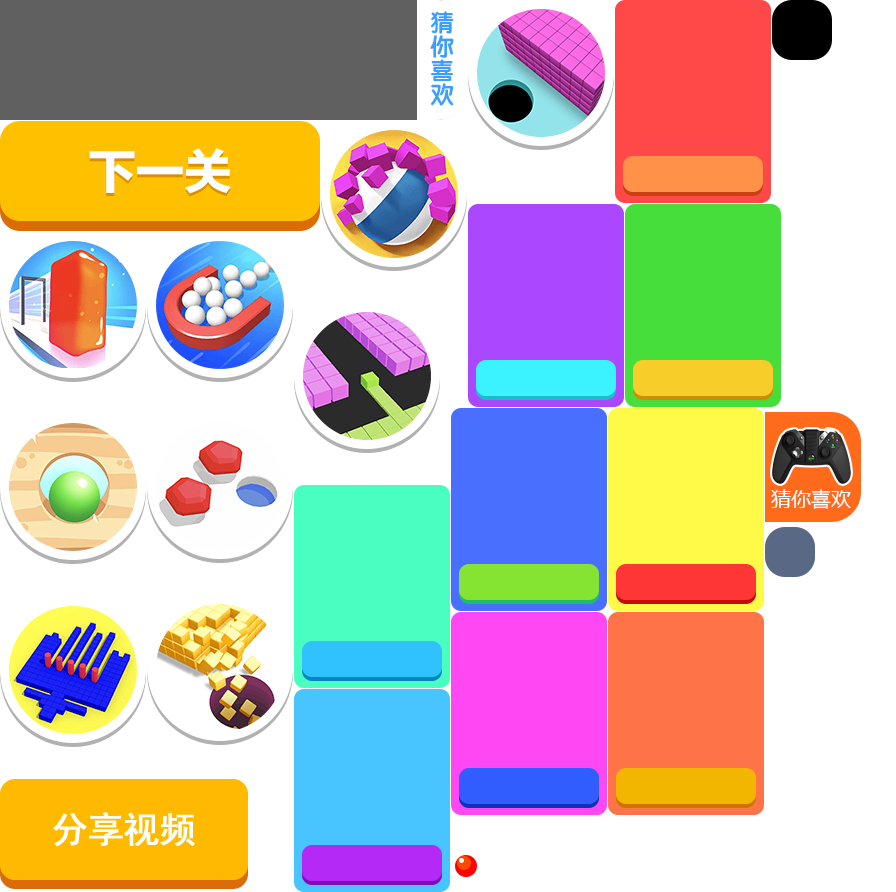
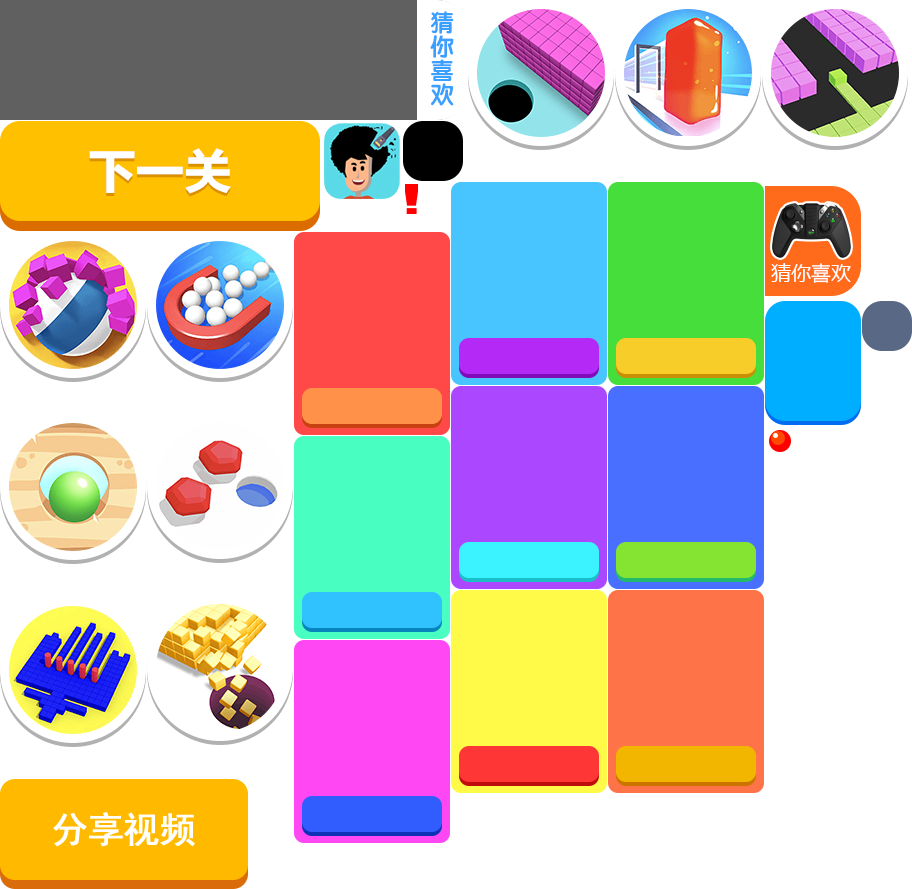
头条(1.添加轮播游戏盒子,2.更新游戏盒子列表)

diff --git a/src/ui/layaMaxUI.ts b/src/ui/layaMaxUI.ts
@@ -42,7 +42,9 @@ export module ui {
 		public shareBox:Laya.Sprite;
 		public again:Laya.Label;
 		public btn_share:Laya.Image;
-        public static  uiView:any ={"type":"Scene","props":{"width":750,"positionVariance_0":100,"maxPartices":100,"height":1630},"compId":1,"child":[{"type":"Box","props":{"y":0,"x":0,"width":750,"var":"box_mouse","height":1630},"compId":21},{"type":"Box","props":{"y":0,"x":0,"width":750,"var":"box_main","height":1630},"compId":112,"child":[{"type":"Image","props":{"y":228,"x":96,"skin":"img/logo.png"},"compId":164},{"type":"Image","props":{"y":750,"x":220,"var":"btn_doubleStart","skin":"img/zj-anniu.png"},"compId":156},{"type":"Image","props":{"y":900,"x":220,"var":"btn_start","skin":"img/zj-anniu1.png"},"compId":157,"child":[{"type":"Image","props":{"y":42,"x":72,"skin":"img/zj-anniu2.png"},"compId":186}]},{"type":"Image","props":{"y":536,"x":3,"skin":"img/zj-di.png"},"compId":162,"child":[{"type":"Image","props":{"y":11,"x":15,"var":"img_signin","skin":"img/zj-qd.png"},"compId":160}]},{"type":"Image","props":{"y":661,"x":3,"skin":"img/zj-di.png"},"compId":163,"child":[{"type":"Image","props":{"y":4,"x":18,"var":"img_skin","skin":"img/zj-pf.png"},"compId":161}]}]},{"type":"Box","props":{"y":0,"x":0,"width":750,"var":"box_win","height":1630},"compId":128,"child":[{"type":"Image","props":{"y":269,"x":111,"skin":"img/sl-sl.png"},"compId":170},{"type":"Image","props":{"y":420,"x":192,"skin":"img/sl-jl1.png"},"compId":167,"child":[{"type":"Image","props":{"y":48,"x":50,"skin":"img/sl-jl2.png"},"compId":168},{"type":"Image","props":{"y":280,"x":122,"skin":"img/start-z.png"},"compId":169},{"type":"Label","props":{"y":276.5,"x":184,"width":129,"var":"label_getdmd","valign":"middle","text":"20","height":50,"fontSize":50,"font":"SimHei","color":"#ffffff","bold":true,"align":"left"},"compId":173}]},{"type":"Image","props":{"y":820,"x":220,"var":"btn_wubeilingqu","skin":"img/sl-lq.png"},"compId":165},{"type":"Image","props":{"y":980,"x":220,"var":"btn_zhijielingqu","skin":"img/zj-anniu1.png"},"compId":166,"child":[{"type":"Image","props":{"y":46,"x":83,"skin":"img/zjlq.png"},"compId":185}]}]},{"type":"Box","props":{"y":0,"x":0,"width":750,"var":"box_lose","height":1630},"compId":129,"child":[{"type":"Image","props":{"y":284,"x":110.5,"skin":"img/sb-sb.png"},"compId":174},{"type":"Image","props":{"y":420,"x":210,"skin":"img/sb-djs.png"},"compId":175},{"type":"Image","props":{"y":820,"x":220.5,"var":"btn_jixuyouxi","skin":"img/sb-jx.png"},"compId":176},{"type":"Image","props":{"y":980,"x":220,"var":"btn_fanhui","skin":"img/zj-anniu1.png"},"compId":177,"child":[{"type":"Image","props":{"y":47,"x":120,"skin":"img/sl-fh.png"},"compId":184}]},{"type":"FontClip","props":{"y":590,"x":375,"var":"font_failCnt","value":"10","skin":"img/1234567890.png","sheet":"1234567890","scaleY":3.2,"scaleX":3.2,"anchorY":0.5,"anchorX":0.5},"compId":183}]},{"type":"Image","props":{"y":135,"x":535,"width":211,"var":"img_dmd","skin":"img/start-zdi.png","sizeGrid":"0,30,0,29","height":59},"compId":121,"child":[{"type":"Image","props":{"y":5,"x":13,"skin":"img/start-z.png"},"compId":122},{"type":"Label","props":{"y":12,"x":75,"width":127,"var":"label_dmd","valign":"middle","text":"0","height":36,"fontSize":36,"font":"SimHei","color":"#ffffff","bold":true,"align":"center"},"compId":125}]},{"type":"Box","props":{"y":138.5,"x":25,"var":"box_set"},"compId":179,"child":[{"type":"Image","props":{"skin":"img/zj-shezhi.png"},"compId":178}]},{"type":"Box","props":{"y":90,"x":235,"var":"box_lvl"},"compId":152,"child":[{"type":"ProgressBar","props":{"var":"prg_pro","skin":"img/start-jdt.png","sizeGrid":"20,0,20,0,1"},"compId":180},{"type":"Label","props":{"y":8,"x":0,"width":55,"var":"label_p1","valign":"middle","text":"0","height":36,"fontSize":36,"font":"SimHei","color":"#ffffff","bold":true,"align":"center"},"compId":181},{"type":"Label","props":{"y":8,"x":220,"width":55,"var":"label_p2","valign":"middle","text":"0","height":36,"fontSize":36,"font":"SimHei","color":"#ffffff","bold":true,"align":"center"},"compId":182}]},{"type":"Image","props":{"y":400,"x":0,"visible":false,"var":"btn_camera","skin":"img/img_camera.png"},"compId":187},{"type":"Image","props":{"x":48,"visible":false,"var":"bg_push","top":1300,"skin":"push/push_bg_img.png","scaleY":1.4,"scaleX":1.4},"compId":188},{"type":"Sprite","props":{"y":130,"x":104,"width":542,"visible":false,"var":"shareBox"},"compId":189,"child":[{"type":"Image","props":{"y":297,"width":542,"skin":"push/img_bg_1.png","sizeGrid":"20,20,20,20","height":686},"compId":190,"child":[{"type":"Label","props":{"y":603,"x":211,"var":"again","underline":true,"text":"再来一次","fontSize":30,"color":"#fff","bold":true},"compId":191},{"type":"Image","props":{"y":463,"x":147,"var":"btn_share","skin":"push/img_share.png"},"compId":192},{"type":"Label","props":{"y":223,"x":40,"text":"将本次精彩操作分享给朋友吧!","fontSize":34,"color":"#fff","bold":true},"compId":197},{"type":"Label","props":{"y":33,"x":169,"text":"提示","fontSize":100,"color":"#ffd40b","bold":true},"compId":198}]}]}],"loadList":["img/logo.png","img/zj-anniu.png","img/zj-anniu1.png","img/zj-anniu2.png","img/zj-di.png","img/zj-qd.png","img/zj-pf.png","img/sl-sl.png","img/sl-jl1.png","img/sl-jl2.png","img/start-z.png","img/sl-lq.png","img/zjlq.png","img/sb-sb.png","img/sb-djs.png","img/sb-jx.png","img/sl-fh.png","img/1234567890.png","img/start-zdi.png","img/zj-shezhi.png","img/start-jdt.png","img/img_camera.png","push/push_bg_img.png","push/img_bg_1.png","push/img_share.png"],"loadList3D":[]};
+		public TTBtnPush:Laya.Image;
+		public TTBtnIcon:Laya.Image;
+        public static  uiView:any ={"type":"Scene","props":{"width":750,"positionVariance_0":100,"maxPartices":100,"height":1630},"compId":1,"child":[{"type":"Box","props":{"y":0,"x":0,"width":750,"var":"box_mouse","height":1630},"compId":21},{"type":"Box","props":{"y":0,"x":0,"width":750,"var":"box_main","height":1630},"compId":112,"child":[{"type":"Image","props":{"y":228,"x":96,"skin":"img/logo.png"},"compId":164},{"type":"Image","props":{"y":750,"x":220,"var":"btn_doubleStart","skin":"img/zj-anniu.png"},"compId":156},{"type":"Image","props":{"y":900,"x":220,"var":"btn_start","skin":"img/zj-anniu1.png"},"compId":157,"child":[{"type":"Image","props":{"y":42,"x":72,"skin":"img/zj-anniu2.png"},"compId":186}]},{"type":"Image","props":{"y":536,"x":3,"skin":"img/zj-di.png"},"compId":162,"child":[{"type":"Image","props":{"y":11,"x":15,"var":"img_signin","skin":"img/zj-qd.png"},"compId":160}]},{"type":"Image","props":{"y":661,"x":3,"skin":"img/zj-di.png"},"compId":163,"child":[{"type":"Image","props":{"y":4,"x":18,"var":"img_skin","skin":"img/zj-pf.png"},"compId":161}]}]},{"type":"Box","props":{"y":0,"x":0,"width":750,"var":"box_win","height":1630},"compId":128,"child":[{"type":"Image","props":{"y":269,"x":111,"skin":"img/sl-sl.png"},"compId":170},{"type":"Image","props":{"y":420,"x":192,"skin":"img/sl-jl1.png"},"compId":167,"child":[{"type":"Image","props":{"y":48,"x":50,"skin":"img/sl-jl2.png"},"compId":168},{"type":"Image","props":{"y":280,"x":122,"skin":"img/start-z.png"},"compId":169},{"type":"Label","props":{"y":276.5,"x":184,"width":129,"var":"label_getdmd","valign":"middle","text":"20","height":50,"fontSize":50,"font":"SimHei","color":"#ffffff","bold":true,"align":"left"},"compId":173}]},{"type":"Image","props":{"y":820,"x":220,"var":"btn_wubeilingqu","skin":"img/sl-lq.png"},"compId":165},{"type":"Image","props":{"y":980,"x":220,"var":"btn_zhijielingqu","skin":"img/zj-anniu1.png"},"compId":166,"child":[{"type":"Image","props":{"y":46,"x":83,"skin":"img/zjlq.png"},"compId":185}]}]},{"type":"Box","props":{"y":0,"x":0,"width":750,"var":"box_lose","height":1630},"compId":129,"child":[{"type":"Image","props":{"y":284,"x":110.5,"skin":"img/sb-sb.png"},"compId":174},{"type":"Image","props":{"y":420,"x":210,"skin":"img/sb-djs.png"},"compId":175},{"type":"Image","props":{"y":820,"x":220.5,"var":"btn_jixuyouxi","skin":"img/sb-jx.png"},"compId":176},{"type":"Image","props":{"y":980,"x":220,"var":"btn_fanhui","skin":"img/zj-anniu1.png"},"compId":177,"child":[{"type":"Image","props":{"y":47,"x":120,"skin":"img/sl-fh.png"},"compId":184}]},{"type":"FontClip","props":{"y":590,"x":375,"var":"font_failCnt","value":"10","skin":"img/1234567890.png","sheet":"1234567890","scaleY":3.2,"scaleX":3.2,"anchorY":0.5,"anchorX":0.5},"compId":183}]},{"type":"Image","props":{"y":135,"x":535,"width":211,"var":"img_dmd","skin":"img/start-zdi.png","sizeGrid":"0,30,0,29","height":59},"compId":121,"child":[{"type":"Image","props":{"y":5,"x":13,"skin":"img/start-z.png"},"compId":122},{"type":"Label","props":{"y":12,"x":75,"width":127,"var":"label_dmd","valign":"middle","text":"0","height":36,"fontSize":36,"font":"SimHei","color":"#ffffff","bold":true,"align":"center"},"compId":125}]},{"type":"Box","props":{"y":138.5,"x":25,"var":"box_set"},"compId":179,"child":[{"type":"Image","props":{"skin":"img/zj-shezhi.png"},"compId":178}]},{"type":"Box","props":{"y":90,"x":235,"var":"box_lvl"},"compId":152,"child":[{"type":"ProgressBar","props":{"var":"prg_pro","skin":"img/start-jdt.png","sizeGrid":"20,0,20,0,1"},"compId":180},{"type":"Label","props":{"y":8,"x":0,"width":55,"var":"label_p1","valign":"middle","text":"0","height":36,"fontSize":36,"font":"SimHei","color":"#ffffff","bold":true,"align":"center"},"compId":181},{"type":"Label","props":{"y":8,"x":220,"width":55,"var":"label_p2","valign":"middle","text":"0","height":36,"fontSize":36,"font":"SimHei","color":"#ffffff","bold":true,"align":"center"},"compId":182}]},{"type":"Image","props":{"y":400,"x":0,"visible":false,"var":"btn_camera","skin":"img/img_camera.png"},"compId":187},{"type":"Image","props":{"x":48,"visible":false,"var":"bg_push","top":1300,"skin":"push/push_bg_img.png","scaleY":1.4,"scaleX":1.4},"compId":188},{"type":"Sprite","props":{"y":130,"x":104,"width":542,"visible":false,"var":"shareBox"},"compId":189,"child":[{"type":"Image","props":{"y":297,"width":542,"skin":"push/img_bg_1.png","sizeGrid":"20,20,20,20","height":686},"compId":190,"child":[{"type":"Label","props":{"y":603,"x":211,"var":"again","underline":true,"text":"再来一次","fontSize":30,"color":"#fff","bold":true},"compId":191},{"type":"Image","props":{"y":463,"x":147,"var":"btn_share","skin":"push/img_share.png"},"compId":192},{"type":"Label","props":{"y":223,"x":40,"text":"将本次精彩操作分享给朋友吧!","fontSize":34,"color":"#fff","bold":true},"compId":197},{"type":"Label","props":{"y":33,"x":169,"text":"提示","fontSize":100,"color":"#ffd40b","bold":true},"compId":198}]}]},{"type":"Image","props":{"y":618,"x":682,"visible":false,"var":"TTBtnPush","skin":"push/bg_push.png","right":20,"pivotY":68,"pivotX":48},"compId":199,"child":[{"type":"Image","props":{"y":11,"x":7,"var":"TTBtnIcon","skin":"push/fklfsicon.png"},"compId":200},{"type":"Image","props":{"y":-12,"skin":"push/mark.png"},"compId":201}]}],"loadList":["img/logo.png","img/zj-anniu.png","img/zj-anniu1.png","img/zj-anniu2.png","img/zj-di.png","img/zj-qd.png","img/zj-pf.png","img/sl-sl.png","img/sl-jl1.png","img/sl-jl2.png","img/start-z.png","img/sl-lq.png","img/zjlq.png","img/sb-sb.png","img/sb-djs.png","img/sb-jx.png","img/sl-fh.png","img/1234567890.png","img/start-zdi.png","img/zj-shezhi.png","img/start-jdt.png","img/img_camera.png","push/push_bg_img.png","push/img_bg_1.png","push/img_share.png","push/bg_push.png","push/fklfsicon.png","push/mark.png"],"loadList3D":[]};
         constructor(){ super()}
         createChildren():void {
             super.createChildren();

diff --git a/src/platforms/JsbTouTiao.ts b/src/platforms/JsbTouTiao.ts
@@ -1,6 +1,8 @@
 import { JsbBase, AdvertType } from "./JsbBase";
 import { VideoCom } from "../Component/VideoCom";
 
+const pushIcon = ['fklfsicon', 'qqtkicon', 'bzklicon', 'cjjyicon', 'qqbwticon'];
+
 export default class JsbTouTiao extends JsbBase {
 
 
@@ -26,6 +28,9 @@ export default class JsbTouTiao extends JsbBase {
 
     public windowWidth: number;
     public windowHeight: number;
+
+    public pushNum: number = 0;
+    public tweenNum: number = 0;
 
     public excitationHandler: Laya.Handler;
 
@@ -336,7 +341,7 @@ export default class JsbTouTiao extends JsbBase {
             let id = "ttf3f0854d6cda1ee2";
             this.btna = tt.createMoreGamesButton({
                 type: "image",
-                image: "res/push/qqbwticon.png",
+                image: "res/push/fklfsicon.png",
                 style: {
                     left: 22,
                     top: this.windowHeight - 100,
@@ -362,7 +367,7 @@ export default class JsbTouTiao extends JsbBase {
 
             this.btnb = tt.createMoreGamesButton({
                 type: "image",
-                image: "res/push/ggphqicon.png",
+                image: "res/push/qqtkicon.png",
                 style: {
                     left: 94,
                     top: this.windowHeight - 100,
@@ -414,7 +419,7 @@ export default class JsbTouTiao extends JsbBase {
 
             this.btnd = tt.createMoreGamesButton({
                 type: "image",
-                image: "res/push/hdcqdzzicon.png",
+                image: "res/push/cjjyicon.png",
                 style: {
                     left: 240,
                     top: this.windowHeight - 100,
@@ -461,5 +466,51 @@ export default class JsbTouTiao extends JsbBase {
     /** 是不是胖子*/
     isFat(){
         return (this.windowHeight / this.windowWidth) < 1.9;
+    }
+
+    /** 跳转小游戏*/
+    TTnavigateToMiniGame() {
+        if (this.isIos()) return;
+        // 打开互跳弹窗
+        tt.showMoreGamesModal({
+            appLaunchOptions: [
+                {
+                    appId: 'tt68a61e1bf78cb645',
+                    query: "foo=bar&baz=qux"
+                }
+            ],
+            success(res) {
+                console.log('success', res.errMsg)
+            },
+            fail(res) {
+                console.log('fail', res.errMsg)
+            }
+        })
+    }
+
+    /** 头条互推轮播*/
+    ttPushShake(game) {
+        game.TTBtnIcon.skin = `res/push/${pushIcon[this.pushNum]}.png`;
+        this.pushNum++;
+        if(this.pushNum > 4)this.pushNum = 0;
+        this.tween_push(game);
+        setTimeout(() => {
+            this.ttPushShake(game);
+        }, 1000 * 4.8)
+    }
+    /** 头条互推轮播缓动序列*/
+    tween_push(game){
+        this.tweenNum++;
+        if(this.tweenNum > 4)return this.tweenNum = 0;
+        Laya.Tween.to(game.TTBtnPush,{ rotation: 30 }, 200, null, Laya.Handler.create(this,this.tween_1,[game]));
+    }
+    tween_1(game){
+        Laya.Tween.to(game.TTBtnPush,{ rotation: 0 }, 200, null, Laya.Handler.create(this,this.tween_2,[game]));
+    }
+    tween_2(game){
+        Laya.Tween.to(game.TTBtnPush,{ rotation: -30 }, 200, null, Laya.Handler.create(this,this.tween_3,[game]), 400);
+    }
+    tween_3(game){
+        Laya.Tween.to(game.TTBtnPush,{ rotation: 0 }, 200, null, Laya.Handler.create(this,this.tween_push,[game]));
     }
 }

diff --git a/src/games/GameUI.ts b/src/games/GameUI.ts
@@ -88,12 +88,16 @@ export default class GameUI extends ui.MainSceneUI {
 
         this.btn_share.on(Laya.Event.CLICK, this, this.videoShare);
         this.again.on(Laya.Event.CLICK, this, this.againType);
+        this.TTBtnPush.on(Laya.Event.CLICK, this, this.btnPush);
 
         if (PlatformManager.platform != PlatformType.TTMinGame) {
             this.btn_camera.visible = false;
         } else {
             this.btn_camera.visible = true;
             this.btn_camera.addComponent(VideoCom);
+            if (PlatformManager.Jsb.isIos()) return;
+            this.TTBtnPush.visible = true;
+            PlatformManager.Jsb.ttPushShake(this);
         }
     }
 
@@ -299,6 +303,11 @@ export default class GameUI extends ui.MainSceneUI {
         }else{
             this.reloadGame();
         }
+    }
+
+    /** 头条互推轮播点击*/
+    btnPush(){
+        PlatformManager.Jsb.TTnavigateToMiniGame();
     }
 }
 

diff --git a/src/Main.ts b/src/Main.ts
@@ -37,7 +37,8 @@ class Main {
 		// Laya.Stat.show();
 
 		// PlatformManager.init(PlatformType.VivoMinGame);
-		PlatformManager.init(PlatformType.None);
+		PlatformManager.init(PlatformType.TTMinGame);
+		// PlatformManager.init(PlatformType.None);
 
 		//激活资源版本控制，version.json由IDE发布功能自动生成，如果没有也不影响后续流程
 		Laya.ResourceVersion.enable("version.json", Laya.Handler.create(this, this.onVersionLoaded), Laya.ResourceVersion.FILENAME_VERSION);

diff --git a/src/Component/VideoCom.ts b/src/Component/VideoCom.ts
@@ -101,7 +101,6 @@ export class VideoCom extends Laya.Script {
                 })
                 this.isOp = false;
             }
-            this.isRecord = !this.isRecord;
         } else {
             if (this.playType) {
                 this.playType = false
@@ -132,6 +131,7 @@ export class VideoCom extends Laya.Script {
 
             }
         }
+        this.isRecord = !this.isRecord;
     }
 
     onUpdate() {

diff --git a/src/GameConfig.ts b/src/GameConfig.ts
@@ -10,7 +10,7 @@ export default class GameConfig{
     static screenMode:string="none";
     static alignV:string="top";
     static alignH:string="left";
-    static startScene:any="LoadView.scene";
+    static startScene:any="MainScene.scene";
     static sceneRoot:string="";
     static debug:boolean=false;
     static stat:boolean=false;

diff --git a/libs/global.d.ts b/libs/global.d.ts
@@ -31,6 +31,8 @@ declare module tt {
   export function createRewardedVideoAd(obj: any): any;
   
   export function createMoreGamesButton(obj: any): any;
+  
+  export function showMoreGamesModal(obj: any): any;
 
   export function getStorageSync(key: string): any;
 

diff --git a/src/platforms/JsbBase.ts b/src/platforms/JsbBase.ts
@@ -156,6 +156,16 @@ export class JsbBase {
     public showBannder(){
         
     }
+
+    /** 头条互推轮播*/
+    public ttPushShake(view) {
+
+    }
+
+    /** 跳转小游戏*/
+    public TTnavigateToMiniGame() {
+
+    }
 }
 
 
